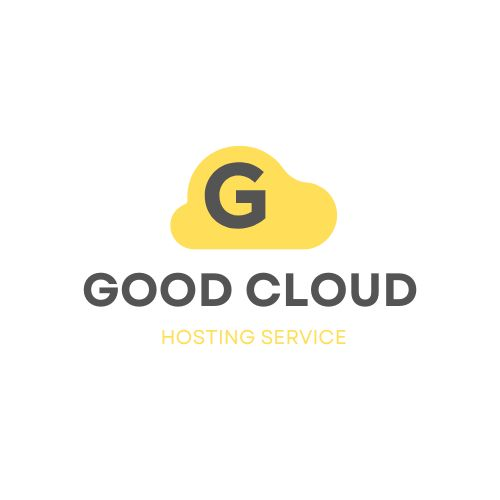
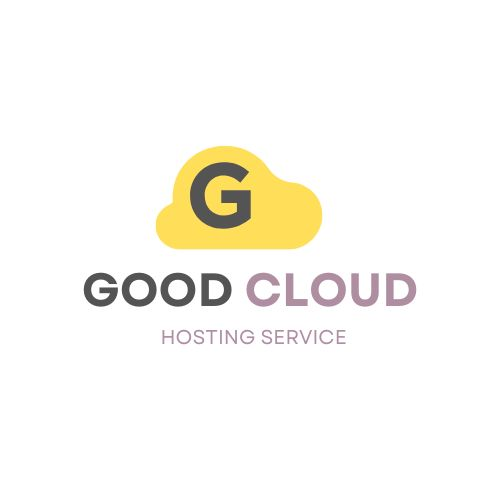
update images

Changed region(s): [[0.3, 0.27, 0.69, 0.51], [0.48, 0.54, 0.84, 0.63], [0.3, 0.66, 0.69, 0.69]]

diff --git a/webhost/site-plan.html b/webhost/site-plan.html
@@ -25,13 +25,14 @@
 
 
       <h3>Audience</h3>
-      <p>[Your audience here]</p>  <!-- change this -->
+      <p>Good Cloud focus on the customers, we like to ask our customers what they need and then provide a solution.  We will  then select the best suited package,
+        that allows our customers to expand their services with ease, without limitation.</p>  <!-- change this -->
 
       <hr>
       <h2>Branding</h2>
       <h3>Website Logo</h3>
       <!-- Replace this with some sort of logo for your site.  A logo can be as simple as the name of your site in a nice font :) -->
-      <img src="#" alt="Logo image">
+      <img src="hosting service.jpg" alt="Logo image">
       <hr>
       <h2>
         Style Guide
@@ -45,7 +46,7 @@
       <!--  The colors you choose for a website are one of the most important decisions you will make. Follow the instructions on the activity in iLearn then return and replace the color codes below with the hex color codes (the 6 digit numbers that show at the bottom of each color) for the colors you have chosen below.  You should have at least 2 colors but do not have to fill in all 4 if you do not need them.  -->
 
       <!-- Copy and paste the URL to your finished palette below Make sure to paste it into both spots -->
-      Palette URL: <a href="https://coolors.co/396e94-e7c24f-a43312-381d2a-aabd8c" target="_blank">https://coolors.co/396e94-e7c24f-a43312-381d2a-aabd8c</a>
+      Palette URL: <a href="https://coolors.co/b08ea2-e3f2fd-e7c24f-565857" target="_blank">https://coolors.co/396e94-e7c24f-a43312-381d2a-aabd8c</a>
 
 
       <table class="colors">
